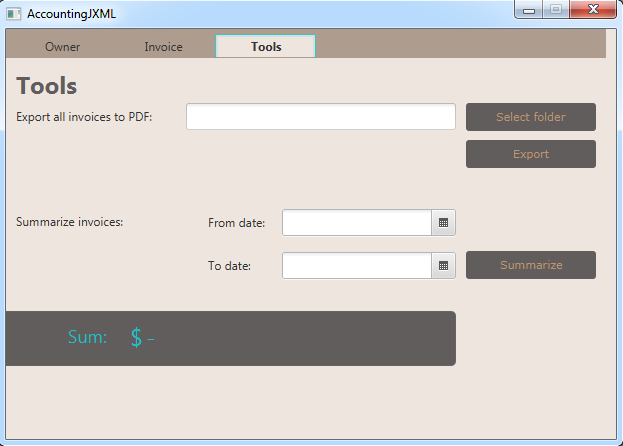
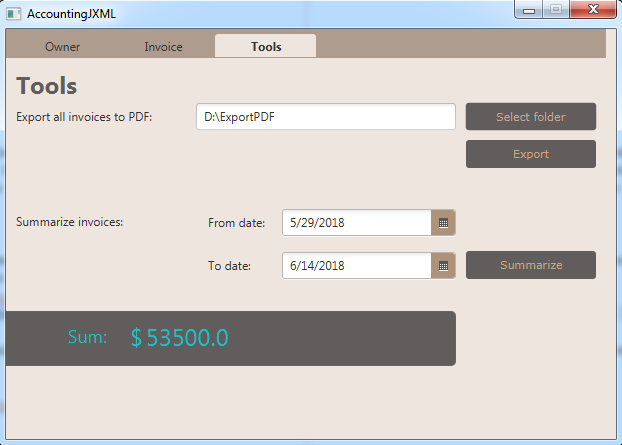
com

diff --git a/docs/gui.html b/docs/gui.html
@@ -55,11 +55,17 @@
             <h1>GUI</h1>
             <p>
                 Graphical user interface (or GUI for short) is user interface which allows interaction between user
-                and electronic device through graphical icons and indicators.
+                and electronic device through graphical icons and indicators.<br/>
+                TODO
             </p>
-            
-            <h2>Application GUI</h2>
-            
+            <h2>JavaFX</h2>
+            <p>
+                JavaFX is a software platform for creating and delivering desktop applications as well as rich Internet
+                applications (RIAS) that can run across a wide variety of devices. JavaFX has support for desktop comuters
+                and web browsers on Microsoft windows Linux and macOS. Currently JavaFX is intended to slowly replace Swing
+                for creatation GUI for java applications.
+            </p>
+            <h2>Application GUI</h2>            
             <p>
                 Our application's interface consists of three sections.
             </p>
@@ -68,9 +74,7 @@
                 <li>Invoice</li>
                 <li>Tools</li>
             </ul>
-
-            <h3>Owner</h3>
-            
+            <h3>Owner</h3>            
             <p>
                 Section Owner is divided into two subsections and allows reset of all personal data.
             </p>
@@ -86,17 +90,20 @@
                 Section Invoice is divided into four subsections.
             </p>
             <ul>
-                <li>Subsection Trader ...</li>
-                <li>Subsection Contacts...</li>
-                <li>Subsection Items ...</li>
-                <li>Subsection Type of invoice ...</li>
+                <li>Subsection Trader offers similar options as subsection Personal data with addition of two
+                radio buttons. Those are Payer and Seller and while filling out new Invoice this sets if the items
+                bought or sold.</li>
+                <li>Subsection Contacts gives access to database of telephone numbers and emails for buyer/seller.</li>
+                <li>Subsection Items allows to set name unit price quantity and description for each item of the invoice.</li>
+                <li>Subsection Type of invoice has setting for billing date issuing date and recipients address.</li>
             </ul>
             <img src="resources/GUI4.png" alt="pic4" width="40%" height="40%">
             <img src="resources/GUI2.png" alt="pic2" width="40%" height="40%">
             <br/>
             <h3>Tools</h3>
             <p>
-                Section Tools allowes to export stored data into PDF file
+                Section Tools allowes the user to summarize invoices by selecting from and to date. After summarization
+                it writes the total profit/losses of selected period. It also allowes to export selected Invoices into PDF file.
             </p>
             <img src="resources/GUI3.png" alt="pic3" width="40%" height="40%">
         </div>

diff --git a/docs/functionality.html b/docs/functionality.html
@@ -51,6 +51,28 @@
 
         <!-- Page Content -->
         <div id="page-content-wrapper">
+            <h1>Functionality</h1>
+            <p>
+                Functionality is the middle layer between GUI and Database. As such this layer has to connect all requests from
+                users and store/read data from database. It is very important to keep database from containing inconsistant data
+                so the functionality layer is where all the data are checked. We run two tests before the input data is stored
+                into our database.
+            </p>
+            <h2>Testing on the fly</h2>
+            <p>Testing text inputs the user is typing into our forms. This is done with use of regular expressions. There we set a
+            pattern which every text field must follow.</p>
+            <img id="float-left" src="resources/Test1.png" alt="test1" width="40%" height="40%"><p/>
+            <h2>Testing before storing into DB</h2>
+            <p>
+                Those are run to test if all required text fields are filled with valid input and if stored would create
+                one valid entry.
+            </p>
+            <img id="float-left" src="resources/Test2.png" alt="test2" width="40%" height="40%"><p/>
+            <h2>Export to PDF</h2>
+            <p>
+                TODO
+            </p>
+            <img id="float-left" src="resources/Invoicepdf.png" alt="invoice" width="40%" height="40%"><p/>
         </div>
         <!-- /#page-content-wrapper -->
 
